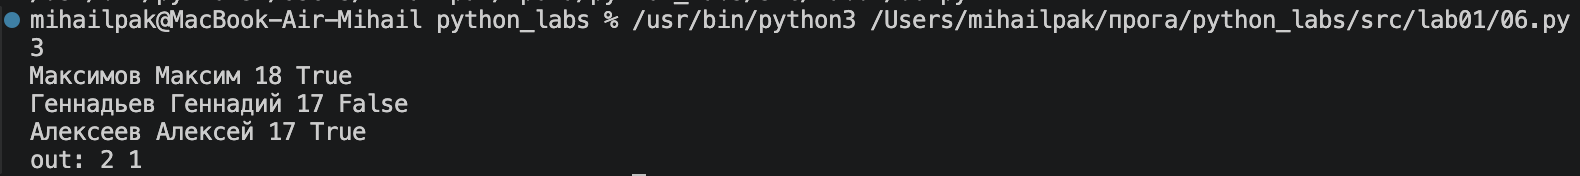
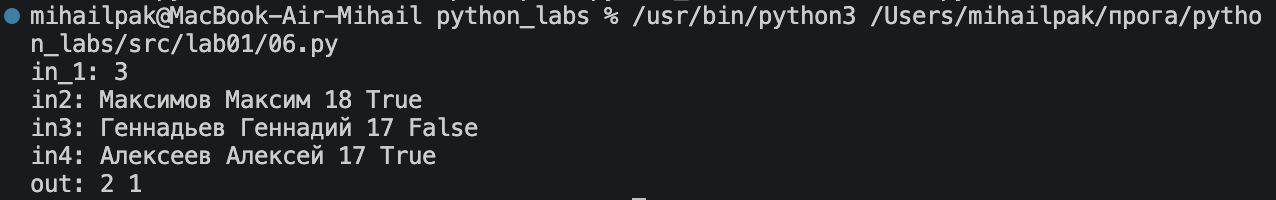
fixed again

diff --git a/src/lab01/05.py b/src/lab01/05.py
@@ -1,4 +1,4 @@
-a,b,c=input().split()
-print('ФИО:',a, b, c,)
-print('Инициалы:'f'{a[0].upper()}{b[0].upper()}{c[0].upper()}')
+a,b,c=input('ФИО: ').split()
+#print('ФИО:',a, b, c,)
+print('Инициалы: 'f'{a[0].upper()}{b[0].upper()}{c[0].upper()}.')
 print('Длина (символов):', len(a)+len(b)+len(c)+2)#добавляю два пробела между фио

diff --git a/src/lab01/03.py b/src/lab01/03.py
@@ -1,4 +1,6 @@
-price,discount,vat=map(float, input().split())
+price=float(input('price='))
+discount=float(input('discount='))
+vat=float(input('vat='))
 base = price * (1 - discount/100)
 vat_amount = base * (vat/100)
 total = base + vat_amount

diff --git a/src/lab01/06.py b/src/lab01/06.py
@@ -1,7 +1,7 @@
-a=int(input())
+a=int(input('in_1: '))
 sp=[0]*a
 for i in range(a):
-    sp[i]=input().split()
+    sp[i]=input(f'in{i+2}: ').split()
 o=0
 z=0
 for i in range(len(sp)):

diff --git a/src/lab01/01.py b/src/lab01/01.py
@@ -1,4 +1,4 @@
-a=str(input())
-b=int(input())
+a=str(input('Имя:'))
+b=int(input("Возраст:"))
 b+=1
 print(f'Привет, {a}! через год тебе будет {b}.')

diff --git a/src/lab01/02.py b/src/lab01/02.py
@@ -1,5 +1,5 @@
-a=input().replace(',','.')
-b=input().replace(',','.')
+a=input('a:').replace(',','.')
+b=input('b:').replace(',','.')
 a=float(a)
 b=float(b)
 z=(a+b)/2

diff --git a/src/lab01/04.py b/src/lab01/04.py
@@ -1,5 +1,4 @@
-a=int(input())
+a=int(input('Минуты:'))
 b=a//60
 c=a%60
-print('минуты:', a)
 print(f'{b}:{c}')

diff --git a/src/lab01/07.py b/src/lab01/07.py
@@ -1,4 +1,4 @@
-a=input()
+a=input('in: ')
 h=''
 for i in range(len(a)):
     if a[i]==a[i].upper():

diff --git a/src/lab01/README.md b/src/lab01/README.md
@@ -12,7 +12,7 @@
 На входе программа получает целое значение минут,высчитывает количество часов(целочисленным делением на 60), и количество минут(остатком от деления на 60) и выводит эти значения с помощью f строки
 ![](/images/lab01/04.png)
 ## Задание 5
-На входе программа получет строку, делит её по пробелам на три элемента(получая тем самым ФИО), далее с помощью срезов и f строки выводятся инициалы, чуть более простым способом(с помощью len) высчитывается и выводится длина ФИО без лишних пробелов
+На входе программа получет строку, делит её по пробелам на три элемента, далее с помощью срезов и f строки выводятся инициалы, чуть более простым способом(с помощью len) высчитывается и выводится длина ФИО без лишних пробелов
 ![](/images/lab01/05.png)
 ## Задание 6
 На входе программа получает сначала целое значение, оно обозначает количество строк для ввода.
